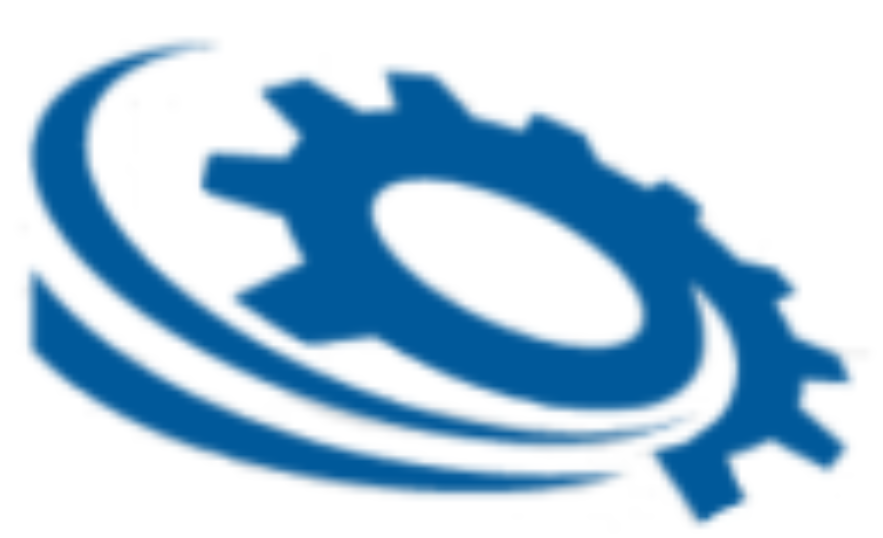
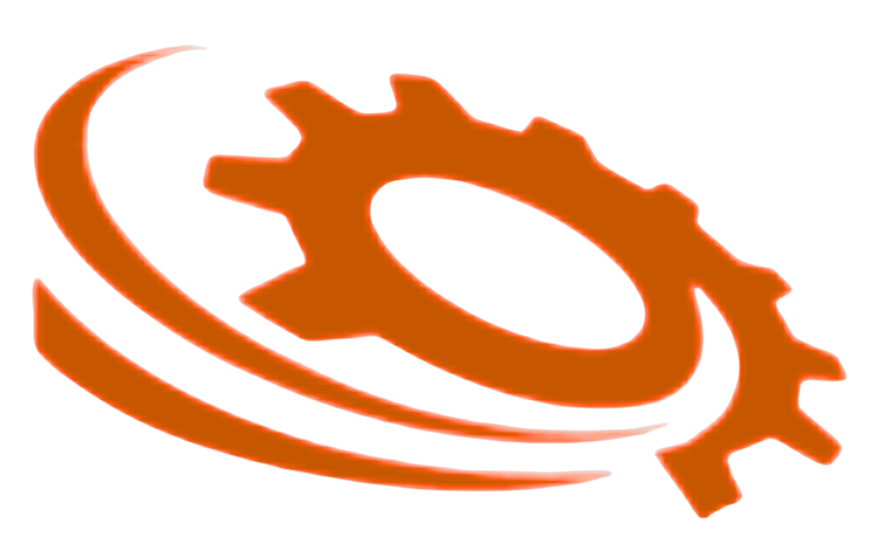
chnages made of blue

diff --git a/src/components/Hero.tsx b/src/components/Hero.tsx
@@ -143,18 +143,18 @@ export default function Hero({ city, settings, heroImages }: { city: CityData, s
   return (
     <section
       id="home"
-      className="relative pt-28 pb-12 sm:pt-32 sm:pb-20 px-4 overflow-hidden bg-white sm:bg-white bg-[radial-gradient(circle_at_top_right,#E8F1F8_0%,transparent_40%),radial-gradient(circle_at_bottom_left,#EEF1F6_0%,transparent_40%)] min-h-[90vh] flex items-center"
+      className="relative min-h-[90vh] flex items-center overflow-hidden bg-white bg-[radial-gradient(circle_at_top_right,var(--color-orange-light)_0%,transparent_42%),radial-gradient(circle_at_bottom_left,var(--color-bg-steel)_0%,transparent_42%)] px-4 pt-28 pb-12 sm:bg-white sm:pt-32 sm:pb-20"
       aria-labelledby="hero-main-title"
     >
       {/* --- SVG Background Pattern --- */}
       <div className="absolute inset-0 z-0 pointer-events-none opacity-[0.2] sm:opacity-[0.4]" aria-hidden="true">
         <svg xmlns="http://www.w3.org/2000/svg" version="1.1" width="100%" height="100%" preserveAspectRatio="xMidYMid slice" viewBox="0 0 1440 560">
             <g mask="url(#SvgjsMask1002)" fill="none">
-                <path d="M1559.34 378.41C1407.15 373.73 1302.06 152.66 997.55 143.21 693.05 133.76 588.09-88.65 435.77-93.41" stroke="rgba(0, 83, 145, 0.58)" strokeWidth="2"></path>
-                <path d="M1561.59 367.31C1463.64 367.03 1368.83 297.31 1176.08 297.31 983.32 297.31 1003.89 376.55 790.56 367.31 577.23 358.07 544.84-28.84 405.05-70.18" stroke="rgba(0, 83, 145, 0.58)" strokeWidth="2"></path>
-                <path d="M1478.41 460.15C1335.73 457.11 1173.73 280.32 942.27 264.15 710.81 247.98 766.36 18.37 674.2-3.08" stroke="rgba(0, 83, 145, 0.58)" strokeWidth="2"></path>
-                <path d="M1691.59 371.9C1510.53 369.11 1278.77 154.3 1002.79 147.9 726.81 141.5 753.84-13.51 658.39-17.74" stroke="rgba(0, 83, 145, 0.58)" strokeWidth="2"></path>
-                <path d="M1662.34 244.57C1530.84 247.05 1422.24 420.25 1165.73 418.17 909.22 416.09 831.02 15.66 669.12-12.98" stroke="rgba(0, 83, 145, 0.58)" strokeWidth="2"></path>
+                <path d="M1559.34 378.41C1407.15 373.73 1302.06 152.66 997.55 143.21 693.05 133.76 588.09-88.65 435.77-93.41" stroke="rgba(234, 88, 12, 0.5)" strokeWidth="2"></path>
+                <path d="M1561.59 367.31C1463.64 367.03 1368.83 297.31 1176.08 297.31 983.32 297.31 1003.89 376.55 790.56 367.31 577.23 358.07 544.84-28.84 405.05-70.18" stroke="rgba(234, 88, 12, 0.5)" strokeWidth="2"></path>
+                <path d="M1478.41 460.15C1335.73 457.11 1173.73 280.32 942.27 264.15 710.81 247.98 766.36 18.37 674.2-3.08" stroke="rgba(234, 88, 12, 0.5)" strokeWidth="2"></path>
+                <path d="M1691.59 371.9C1510.53 369.11 1278.77 154.3 1002.79 147.9 726.81 141.5 753.84-13.51 658.39-17.74" stroke="rgba(234, 88, 12, 0.5)" strokeWidth="2"></path>
+                <path d="M1662.34 244.57C1530.84 247.05 1422.24 420.25 1165.73 418.17 909.22 416.09 831.02 15.66 669.12-12.98" stroke="rgba(234, 88, 12, 0.5)" strokeWidth="2"></path>
             </g>
             <defs>
                 <mask id="SvgjsMask1002">
@@ -167,17 +167,18 @@ export default function Hero({ city, settings, heroImages }: { city: CityData, s
       {/* Engineering Dot Grid */}
       <div 
         className="absolute inset-0 opacity-[0.15] sm:opacity-[0.25]" 
-        style={{ 
-          backgroundImage: `radial-gradient(#cbd5e1 1.5px, transparent 1.5px)`,
-          backgroundSize: '30px 30px'
-        }} 
+        style={{
+          backgroundImage:
+            'radial-gradient(color-mix(in srgb, var(--color-machine-orange) 38%, transparent) 1.5px, transparent 1.5px)',
+          backgroundSize: '30px 30px',
+        }}
         aria-hidden 
       />
       
       {/* Subtle Precision Lines */}
-      <div className="absolute top-[20%] left-0 w-full h-px bg-gradient-to-r from-transparent via-border-grey/40 to-transparent opacity-60" />
-      <div className="absolute top-[80%] left-0 w-full h-px bg-gradient-to-r from-transparent via-border-grey/40 to-transparent opacity-60" />
-      <div className="absolute left-[15%] top-0 w-px h-full bg-gradient-to-b from-transparent via-border-grey/40 to-transparent opacity-60" />
+      <div className="absolute top-[20%] left-0 h-px w-full bg-gradient-to-r from-transparent via-machine-orange/35 to-transparent opacity-70" />
+      <div className="absolute top-[80%] left-0 h-px w-full bg-gradient-to-r from-transparent via-machine-orange/35 to-transparent opacity-70" />
+      <div className="absolute top-0 left-[15%] h-full w-px bg-gradient-to-b from-transparent via-machine-orange/35 to-transparent opacity-70" />
 
       {/* Pulsing Precision Markers */}
       {[...Array(3)].map((_, i) => (
@@ -287,7 +288,7 @@ export default function Hero({ city, settings, heroImages }: { city: CityData, s
             className="lg:col-span-5 relative h-[350px] sm:h-[450px] lg:h-full min-h-[350px] lg:min-h-[500px] mt-2 lg:mt-0 flex items-center justify-center [perspective:1000px]"
           >
             <div className="absolute top-1/2 left-1/2 -translate-x-1/2 -translate-y-1/2 w-[300px] h-[300px] sm:w-[400px] sm:h-[400px] border border-dashed border-machine-orange/30 rounded-full animate-[spin_60s_linear_infinite]" />
-            <div className="absolute top-1/2 left-1/2 -translate-x-1/2 -translate-y-1/2 w-[200px] h-[200px] sm:w-[280px] sm:h-[280px] border border-dashed border-navy/20 rounded-full animate-[spin_40s_linear_infinite_reverse]" />
+            <div className="absolute top-1/2 left-1/2 -translate-x-1/2 -translate-y-1/2 w-[200px] h-[200px] sm:w-[280px] sm:h-[280px] border border-dashed border-machine-orange/25 rounded-full animate-[spin_40s_linear_infinite_reverse]" />
 
             {/* group + clip: 3D rotate on the same node as overflow-hidden breaks hover/clipping in several browsers */}
             <motion.div

diff --git a/src/components/Navbar.tsx b/src/components/Navbar.tsx
@@ -30,11 +30,12 @@ export default function Navbar({
     return () => window.removeEventListener('scroll', handleScroll);
   }, []);
 
+  /** Same landing as the logo (`/` or `/${citySlug}`) so city pages keep correct section anchors. */
   const menuLinks = [
-    { label: 'Services', href: '/#services' },
-    { label: 'Machines', href: '/#machines' },
-    { label: 'Gallery', href: '/gallery' },
-    { label: 'Contact', href: '/#contact' },
+    { label: 'Services', href: `${homeHref}#services` },
+    { label: 'Machines', href: `${homeHref}#machines` },
+    { label: 'Gallery', href: `${homeHref}#gallery` },
+    { label: 'Contact', href: `${homeHref}#contact` },
   ] as const;
 
   return (
@@ -116,7 +117,10 @@ export default function Navbar({
           </div>
 
           <div className="hidden md:block">
-            <a href="/#enquiry" className="bg-machine-orange text-white text-sm font-bold px-6 py-2.5 rounded-xl hover:bg-navy transition-colors shadow-sm">
+            <a
+              href={`${homeHref}#enquiry`}
+              className="bg-machine-orange text-white text-sm font-bold px-6 py-2.5 rounded-xl hover:bg-navy transition-colors shadow-sm"
+            >
               Get Quote
             </a>
           </div>
@@ -163,8 +167,8 @@ export default function Navbar({
                   <ChevronRight size={18} className="text-border-grey group-hover:text-machine-orange transition-transform group-hover:translate-x-1" />
                 </motion.a>
               ))}
-              <a 
-                href="/#enquiry" 
+              <a
+                href={`${homeHref}#enquiry`}
                 className="bg-gradient-to-r from-machine-orange to-amber text-white text-center font-bold py-4 rounded-xl shadow-lg mt-4 flex items-center justify-center gap-2"
                 onClick={() => setIsOpen(false)}
               >

diff --git a/src/lib/indian-mobile-wa.ts b/src/lib/indian-mobile-wa.ts
@@ -1,0 +1,17 @@
+import { COMPANY } from '@/src/constants';
+
+/** 10-digit local mobile for `https://wa.me/91…` (handles +91, spaces, leading 0). */
+export function indianMobileDigitsForWaMe(raw?: string | null): string {
+  const parse = (s: string) => {
+    let d = s.replace(/\D/g, '');
+    if (d.length >= 12 && d.startsWith('91')) d = d.slice(2);
+    if (d.length === 11 && d.startsWith('0')) d = d.slice(1);
+    if (d.length > 10) d = d.slice(-10);
+    return d;
+  };
+
+  const candidate = ((raw ?? '').trim() || COMPANY.phone).trim();
+  const d = parse(candidate);
+  if (d.length === 10 && !/^0+$/.test(d)) return d;
+  return parse(COMPANY.phone);
+}

diff --git a/src/app/globals.css b/src/app/globals.css
@@ -6,11 +6,11 @@
   
   --color-navy: #1C2B3A;
   --color-steel: #2E4A6B;
-  /* Brand accent — matches public/logo.png (~#005391); class names unchanged */
-  --color-machine-orange: #005391;
-  --color-orange-light: #e8f1f8;
-  --color-amber: #1a6eb8;
-  --color-amber-light: #f0f5fa;
+  /* Brand accent — industrial orange (Tailwind-style tokens; class names unchanged) */
+  --color-machine-orange: #ea580c;
+  --color-orange-light: #ffedd5;
+  --color-amber: #f59e0b;
+  --color-amber-light: #fef3c7;
   --color-bg-cloud: #F5F7FA;
   --color-bg-steel: #EEF1F6;
   --color-border-grey: #DDE3EC;

diff --git a/src/components/Infrastructure.tsx b/src/components/Infrastructure.tsx
@@ -79,7 +79,12 @@ export default function Infrastructure({ items }: { items?: any[] }) {
                       <h4 className={`text-lg font-black tracking-tight ${isActive ? 'text-white' : 'text-navy'}`}>
                         {m.name.replace(' job work', '').replace(' supply', '')}
                       </h4>
-                      {isActive && <motion.div layoutId="active-dot" className="w-2 h-2 rounded-full bg-machine-orange shadow-[0_0_10px_#005391]" />}
+                      {isActive && (
+                        <motion.div
+                          layoutId="active-dot"
+                          className="w-2 h-2 rounded-full bg-machine-orange shadow-[0_0_10px_var(--color-machine-orange)]"
+                        />
+                      )}
                     </div>
                     <p className={`text-sm leading-relaxed ${isActive ? 'text-white/70' : 'text-muted-grey'}`}>
                       {m.specs}

diff --git a/src/components/JobsGallerySection.tsx b/src/components/JobsGallerySection.tsx
@@ -3,6 +3,7 @@
 import SectionHeading from './SectionHeading';
 import WhatsAppIcon from './WhatsAppIcon';
 import { COMPANY } from '../constants';
+import { indianMobileDigitsForWaMe } from '../lib/indian-mobile-wa';
 import { cn } from '../lib/utils';
 import type { GalleryCardItem } from '@/src/lib/gallery-display';
 
@@ -18,7 +19,7 @@ export default function JobsGallerySection({
   settings,
   topPaddingClassName = '',
 }: JobsGallerySectionProps) {
-  const phone = settings?.phone || COMPANY.phone;
+  const phoneDigits = indianMobileDigitsForWaMe(settings?.phone ?? COMPANY.phone);
 
   return (
     <section
@@ -37,7 +38,7 @@ export default function JobsGallerySection({
         />
         <div className="mt-12 grid grid-cols-2 gap-4 sm:gap-5 md:grid-cols-3 lg:grid-cols-4">
           {items.map((item, i) => {
-            const waHref = `https://wa.me/91${phone}?text=${encodeURIComponent(`Hello, I would like to get a quote for ${item.title}.`)}`;
+            const waHref = `https://wa.me/91${phoneDigits}?text=${encodeURIComponent(`Hello, I would like to get a quote for ${item.title}.`)}`;
             const href =
               typeof item.linkUrl === 'string' && item.linkUrl.trim().length > 0
                 ? item.linkUrl.trim()

diff --git a/src/components/StickyActions.tsx b/src/components/StickyActions.tsx
@@ -9,7 +9,7 @@ const StickyActions = () => {
     <div className="fixed bottom-6 right-6 z-50 flex flex-col gap-4">
       <a
         href={`tel:+91${COMPANY.phone}`}
-        className="group relative w-14 h-14 bg-navy text-white rounded-full shadow-[0_4px_14px_rgba(0,0,0,0.25)] flex items-center justify-center hover:scale-110 hover:shadow-[0_6px_20px_rgba(10,37,64,0.4)] transition-all duration-300"
+        className="group relative w-14 h-14 bg-navy text-white rounded-full shadow-[0_4px_14px_rgba(0,0,0,0.25)] flex items-center justify-center hover:scale-110 hover:shadow-[0_6px_20px_color-mix(in_srgb,var(--color-machine-orange)_45%,transparent)] transition-all duration-300"
         aria-label="Call Us"
       >
         <span className="absolute right-full mr-4 bg-white text-navy text-sm font-bold px-3 py-1.5 rounded-lg shadow-md opacity-0 pointer-events-none group-hover:opacity-100 transition-opacity whitespace-nowrap hidden md:block">